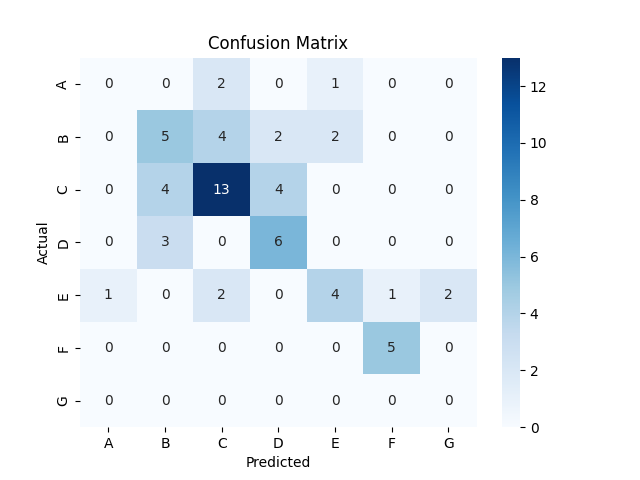
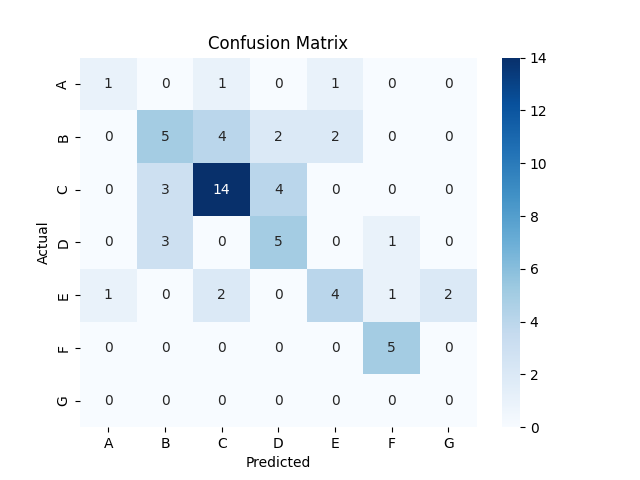
Titanic progress

diff --git a/classification/titanic_predict_deck.py b/classification/titanic_predict_deck.py
@@ -1,5 +1,5 @@
 """
-titanic_exercise.py
+titanic_predict_deck.py
 
 During the titanic exercise, we found that the missing deck values were hard to handle.
 This script will attempt to predict the deck values.
@@ -28,6 +28,7 @@ from sklearn.naive_bayes import GaussianNB
 from sklearn.neighbors import KNeighborsClassifier
 from sklearn.ensemble import RandomForestClassifier
 from sklearn.neural_network import MLPClassifier
+from sklearn.preprocessing import MinMaxScaler
 from sklearn.tree import DecisionTreeClassifier
 
 # Choose your fighter: "LogisticRegression", "KNN", "SVM", "GaussianNB", "DecisionTree", "RandomForest", "MLP"
@@ -65,6 +66,10 @@ def prepare_data(df: pd.DataFrame):
     # Convert the categorical variables and set X and y
     X = pd.get_dummies(feats)
     y = deck_info['deck']
+
+    # Normalize the features
+    scaler = MinMaxScaler()
+    X = scaler.fit_transform(X, y)
 
     return X, y
 

diff --git a/preprocessing/titanic_impute_age.py b/preprocessing/titanic_impute_age.py
@@ -1,3 +1,4 @@
+import numpy as np
 import pandas as pd
 import seaborn as sns
 
@@ -36,4 +37,4 @@ age_means = df.groupby("who")["age"].mean()
 df['age_imputed'] = df['age'].fillna(df.groupby("who")["age"].transform('mean'))
 
 # Print the columns we touched to test
-print(df[["who", "age", "age_imputed"]].tail(10))
+print(df[df["age"].isna()][["who", "age", "age_imputed"]].tail(30))
